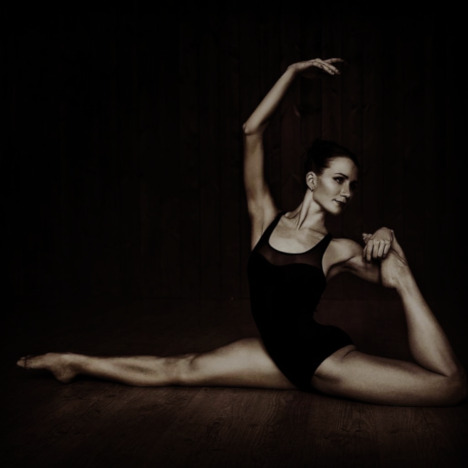
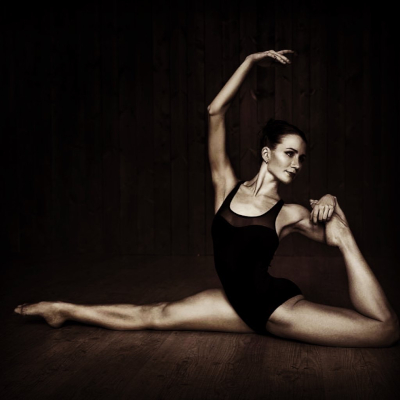
Dev bootstrap

Changed region(s): [[0.51, 0.12, 0.99, 0.87], [0.03, 0.72, 0.6, 0.9]]

diff --git a/Frontend/src/App.vue b/Frontend/src/App.vue
@@ -1,38 +1,37 @@
 <template>
-    <div class="h-100 min-vw-100">
-        <div class="position-absolute h-100 w-100 avatar-md d-none d-md-block"></div>
-        <div class="position-absolute h-100 w-100 avatar-sm d-md-none d-sm-block"></div>
-        <div class="nav h-100 d-none d-md-block"></div>
-        <b-container fluid id="app" class="h-100">
-            <b-row align-v="start" class="links">
-                <b-col/>
-                <b-col cols="2" class="p-5">
-                    Balet
-                </b-col>
-                <b-col cols="2" class="p-5">
-                    About
-                </b-col>
-                <b-col cols="2" class="p-5 e-mali">
-                    julia@violet.run
-                </b-col>
-                <b-col cols="1" class="p-5 e-mali">
-                    )
-                </b-col>
-            </b-row>
-            <b-row class="center" align-v="center">
-                <b-col cols="12" md="8">
-                    <h1 align="center">Основной текст</h1>
-                    <h2 align="center">Какое - то описание</h2>
-                    <h3 align="center">еще меньше буквы</h3>
-                    <h4 align="center">еще меньше буквы</h4>
-                    <h5 align="center">еще меньше буквы</h5>
-                </b-col>
-                <b-col cols="12" md="4">
+    <b-container fluid class="h-100" id="app">
+        <div class="row">
+            <div class="position-absolute h-100 w-100 avatar-md bg d-none d-md-block"></div>
+            <div class="position-absolute h-100 w-100 avatar-sm bg d-sm-block d-md-none"></div>
+            <div class="nav h-100 d-none d-lg-block"></div>
+            <b-container fluid class="h-100">
+                <b-row align-v="start" class="links">
+                    <b-col/>
+                    <b-col cols="2" class="p-5">
+                        About
+                    </b-col>
+                    <b-col cols="2" class="p-5 e-mali">
+                        julia@violet.run
+                    </b-col>
+                    <b-col cols="1" class="p-5 e-mali">
+                        )
+                    </b-col>
+                </b-row>
+                <b-row class="center" align-v="center">
+                    <b-col cols="12" md="8">
+                        <h1 align="center">Основной текст</h1>
+                        <h2 align="center">Какое - то описание</h2>
+                        <h3 align="center">еще меньше буквы</h3>
+                        <h4 align="center">еще меньше буквы</h4>
+                        <h5 align="center">еще меньше буквы</h5>
+                    </b-col>
+                    <b-col cols="12" md="4">
 
-                </b-col>
-            </b-row>
-        </b-container>
-    </div>
+                    </b-col>
+                </b-row>
+            </b-container>
+        </div>
+    </b-container>
 </template>
 
 <script>
@@ -56,7 +55,7 @@ export default {
 
 <style>
     #app {
-        min-width: 478px;
+        min-width: 400px;
     }
 
     html, body {
@@ -69,30 +68,34 @@ export default {
         font-size: 1rem;
         font-weight: 400;
         line-height: 1.5;
-        color: rgba(255, 255, 255, 0.5);
+        /*color: rgba(255, 255, 255, 0.5);*/
+        color: white;
         text-align: left;
     }
 
     .center {
-        height: 600px;
+        height: 500px;
     }
 
     .nav {
         position: absolute;
         width: 80px;
         background-color: #242424;
+        min-height: 800px;
     }
 
     .avatar-md {
         background-position: right bottom;
         background-image: url("./assets/avatar.jpg");
         background-repeat: no-repeat;
+        min-height: 800px;
     }
 
     .avatar-sm {
-        background-position: center bottom;
+        background-position: right bottom;
         background-image: url("./assets/avatar-small.jpg");
         background-repeat: no-repeat;
+        min-height: 900px;
     }
 
     .links {
